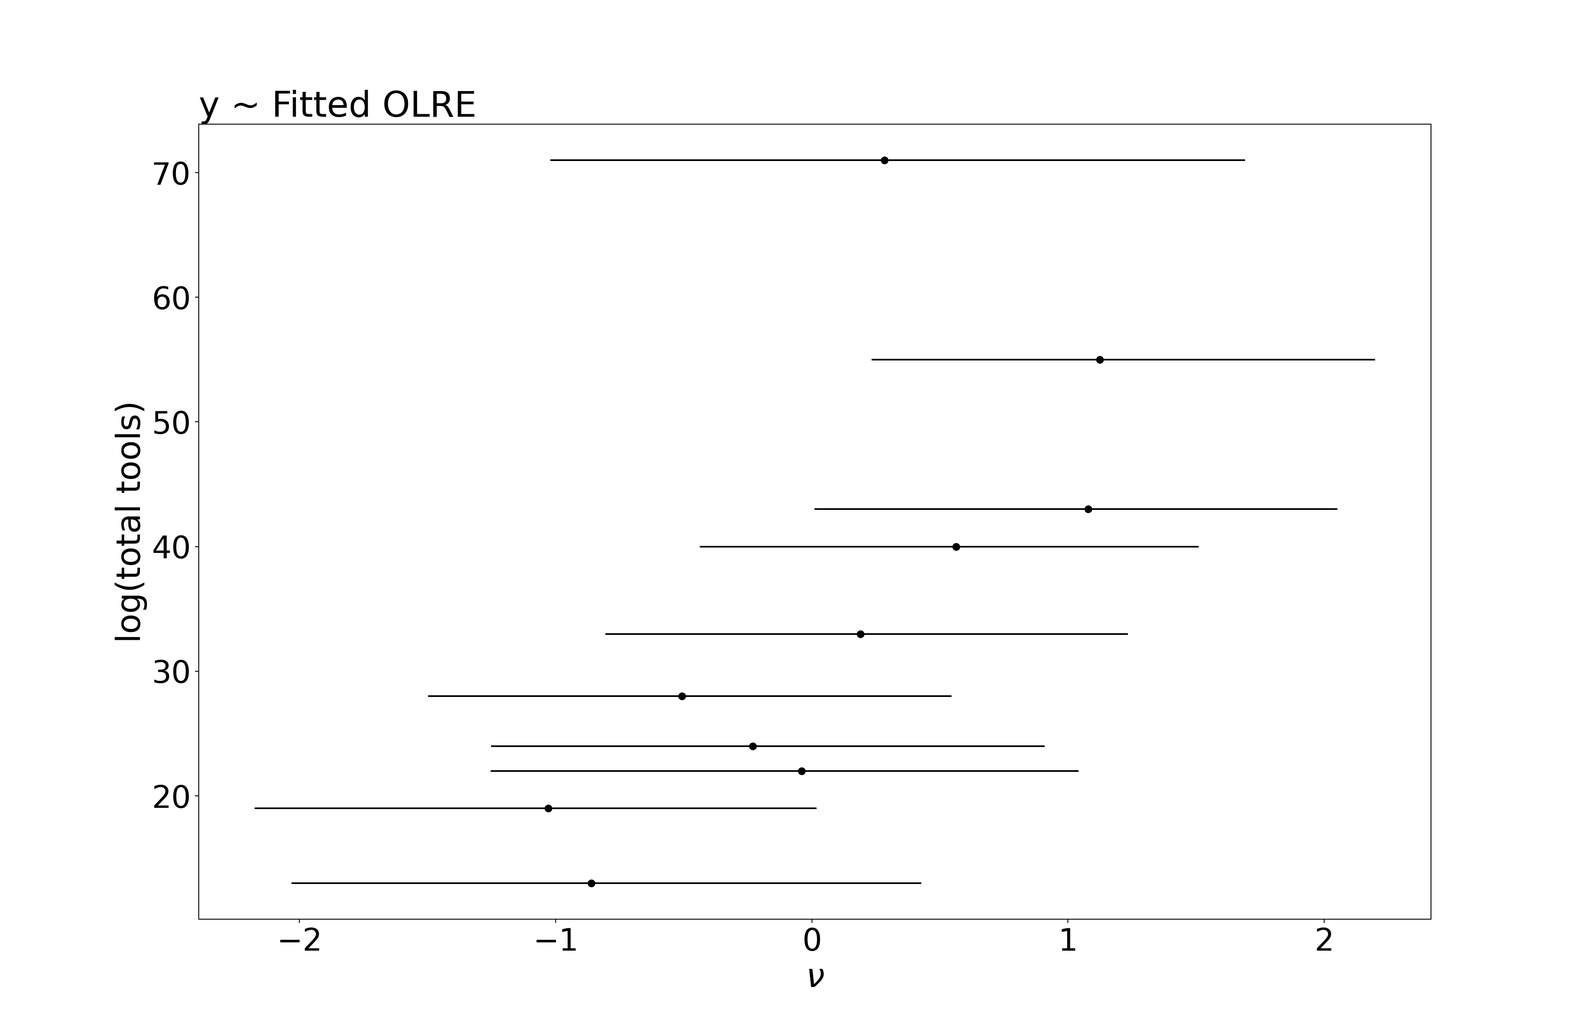
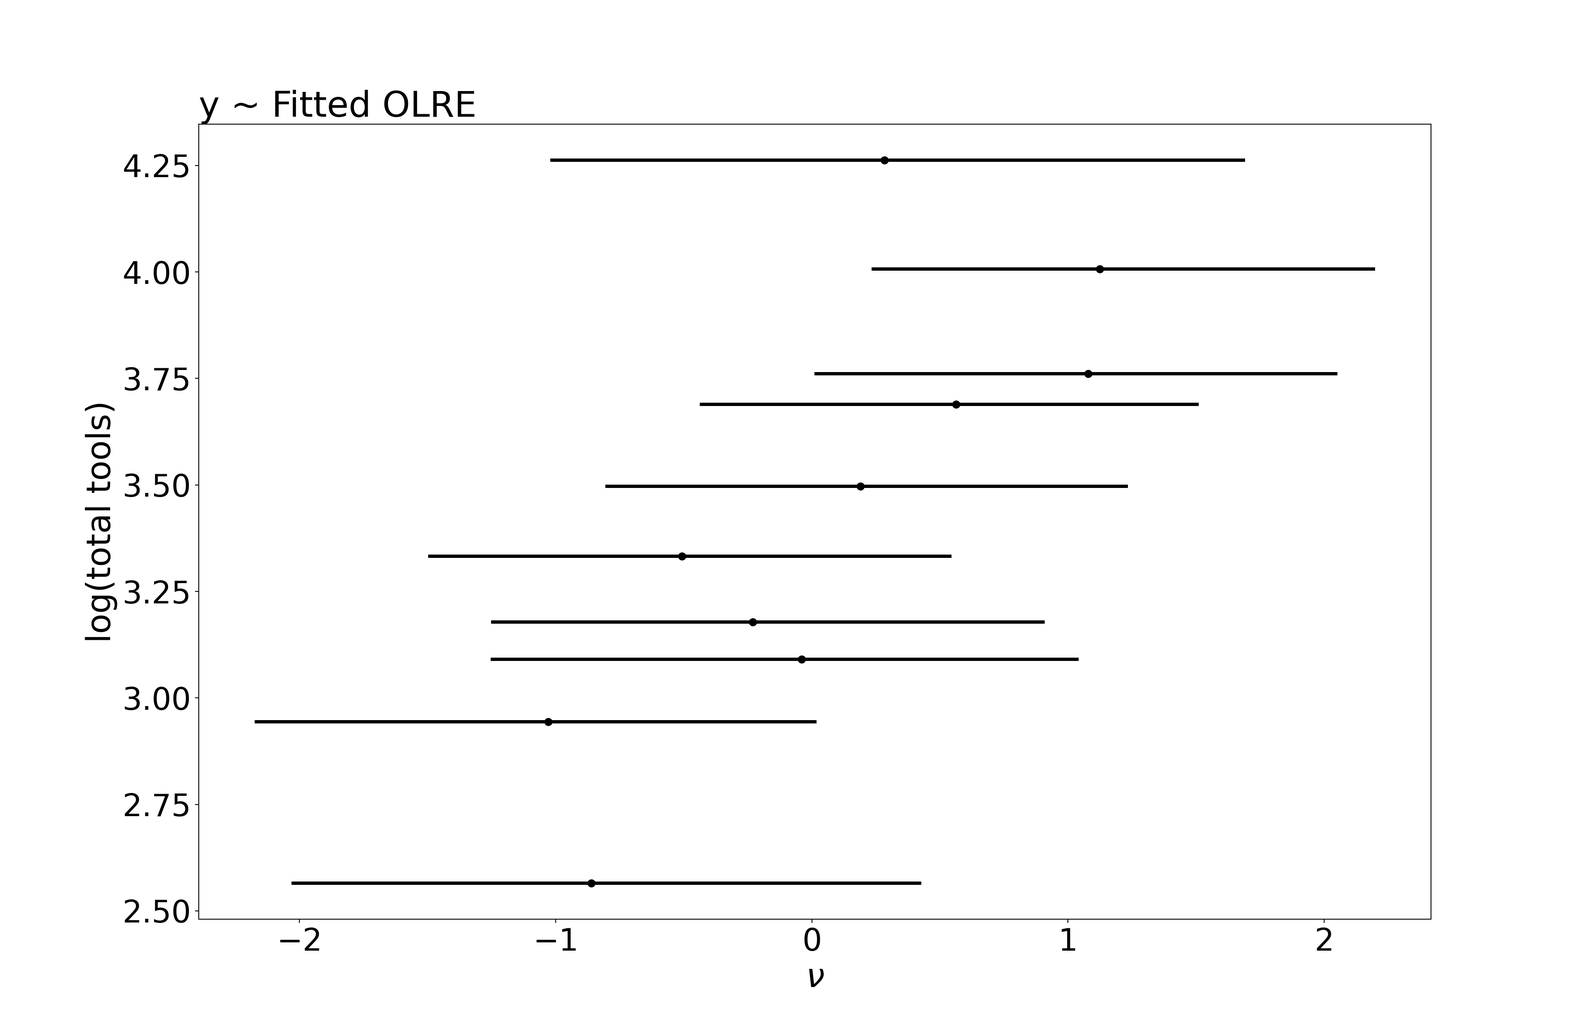
refined ppc post, update profile img

diff --git a/docs/posts/OLRE/index.html b/docs/posts/OLRE/index.html
@@ -258,14 +258,14 @@ window.Quarto = {
 
 
 
-<p>Observation-level random effects (OLRE) are an effective way to model overdispersed count data <span class="citation" data-cites="harrison2014using">(<a href="#ref-harrison2014using" role="doc-biblioref">Harrison 2014</a>)</span>. For example, OLREs relax the assumption of Poisson regression that the variance is equal to the mean by adding a “random intercept” (<span class="math inline">\(\nu\)</span>) for every observation. For each observation <span class="math inline">\(i\)</span>:</p>
+<p>Observation-level random effects (OLRE) are an effective way to model overdispersed count data <span class="citation" data-cites="harrison2014using harrison2015comparison">(<a href="#ref-harrison2014using" role="doc-biblioref">Harrison 2014</a>, <a href="#ref-harrison2015comparison" role="doc-biblioref">2015</a>)</span> and for capturing residual correlations in <a href="https://cran.r-project.org/web/packages/brms/vignettes/brms_multivariate.html">multi-response models</a> <span class="citation" data-cites="hadfield2010mcmc">(<a href="#ref-hadfield2010mcmc" role="doc-biblioref">Hadfield 2010</a>)</span>. For example, OLREs relax the assumption of Poisson regression that the variance is equal to the mean by giving each observation <span class="math inline">\(i\)</span> a “random intercept” (<span class="math inline">\(\nu_i\)</span>):</p>
 <p><span class="math display">\[ y_i \sim \text{Poisson}(\lambda_i)\]</span> <span class="math display">\[ \text{log}(\lambda_i) = b_0 + \nu_i\]</span> <span class="math display">\[ \nu_i \sim \mathcal{N} (0, \sigma) \]</span></p>
-<p>By putting <span class="math inline">\(\nu\)</span> inside the linear model, we smuggle a variance component (<span class="math inline">\(\sigma\)</span>) into a distribution that otherwise has only a single rate parameter (this trick also works for the Binomial distribution <span class="citation" data-cites="harrison2015comparison">(<a href="#ref-harrison2015comparison" role="doc-biblioref">Harrison 2015</a>)</span>). OLREs are also useful for <a href="https://cran.r-project.org/web/packages/brms/vignettes/brms_multivariate.html">multi-response models</a>, allowing us to capture residual correlations between multiple outcomes <span class="citation" data-cites="hadfield2010mcmc">(<a href="#ref-hadfield2010mcmc" role="doc-biblioref">Hadfield 2010</a>)</span>.</p>
+<p>By putting <span class="math inline">\(\nu\)</span> inside the linear model, we smuggle a variance component (<span class="math inline">\(\sigma\)</span>) into a distribution that otherwise has only a single rate parameter (this trick also works for the Binomial distribution).</p>
 <p><a href="https://mc-stan.org/docs/stan-users-guide/posterior-predictive-checks.html">Predictive checks</a> are a routine form of model checking used to understand a model’s ability to represent the data. Unfortunately, <strong>most software for performing predictive checks will handle OLREs the wrong way by default, giving an inflated goodness-of-fit.</strong> In this post I will show you how to do it the right way, in either R + <code>brms</code> or Python + <code>PyMC</code>. In this post I focus on Bayesian models, but the basic idea would also hold for checking frequentist models with software such as <code>lme4</code> and <code>glmmTMB</code>.</p>
 <section id="the-wrong-way" class="level1">
 <h1>The wrong way</h1>
 <p>In Bayesian workflow, we often perform <a href="https://mc-stan.org/docs/stan-users-guide/posterior-predictive-checks.html">posterior predictive checks</a>. In brief, draws from the posterior distribution are used to generate many synthetic replications of our dataset, denoted <span class="math inline">\(y_{\text{rep}}\)</span>, which are then compared to the observed values. Systematic discrepancies between the distribution of <span class="math inline">\(y_\text{rep}\)</span> and the actual data indicate misspecification, and can suggest ways to improve our model.</p>
-<p>To illustrate this idea, we’ll use the Oceanic toolkit complexity dataset from Michelle Kline and Robert Boyd <span class="citation" data-cites="kline2010population">(<a href="#ref-kline2010population" role="doc-biblioref">Kline and Boyd 2010</a>)</span>. The response variable is the count of unique tools in a given Oceanic society (<code>total_tools</code>), which is predicted by the natural logarithm of population size (<code>population</code>). First, we will fit this basic model, using priors from <span class="citation" data-cites="mcelreath2020god">(<a href="#ref-mcelreath2020god" role="doc-biblioref">McElreath 2020</a>)</span>:</p>
+<p>To illustrate this idea, we’ll use the Oceanic toolkit complexity dataset from Michelle Kline and Robert Boyd <span class="citation" data-cites="kline2010population">(<a href="#ref-kline2010population" role="doc-biblioref">Kline and Boyd 2010</a>)</span>. The response variable is the count of unique tools in a given Oceanic society (<code>total_tools</code>), which is predicted by the natural logarithm of population size (<code>population</code>). First we will fit this basic model, using priors from <span class="citation" data-cites="mcelreath2020god">(<a href="#ref-mcelreath2020god" role="doc-biblioref">McElreath 2020</a>)</span>. For each society <span class="math inline">\(i\)</span>:</p>
 <p><span class="math display">\[ \text{total\_tools}_i \sim \text{Poisson}(\lambda_i)\]</span> <span class="math display">\[ \text{log}(\lambda_i) = b_0 + b_{\text{pop}}\text{log}(\text{population}_{z_i})\]</span> <span class="math display">\[ b_0 \sim \mathcal{N}(3, 0.5)\]</span> <span class="math display">\[ b_{\text{pop}} \sim \mathcal{N}(0, 0.2)\]</span></p>
 <p>Then, we will perform posterior predictive checks using some off-the-shelf convenience functions.</p>
 <div class="tabset-margin-container"></div><div class="panel-tabset">
@@ -414,7 +414,7 @@ window.Quarto = {
 <span id="cb3-55"><a href="#cb3-55" aria-hidden="true" tabindex="-1"></a>        elinewidth<span class="op">=</span><span class="dv">8</span>,</span>
 <span id="cb3-56"><a href="#cb3-56" aria-hidden="true" tabindex="-1"></a>        capsize<span class="op">=</span><span class="dv">0</span>,</span>
 <span id="cb3-57"><a href="#cb3-57" aria-hidden="true" tabindex="-1"></a>        label<span class="op">=</span>label,</span>
-<span id="cb3-58"><a href="#cb3-58" aria-hidden="true" tabindex="-1"></a>        alpha <span class="op">=</span> <span class="fl">0.10</span>,</span>
+<span id="cb3-58"><a href="#cb3-58" aria-hidden="true" tabindex="-1"></a>        alpha<span class="op">=</span><span class="fl">0.1</span>,</span>
 <span id="cb3-59"><a href="#cb3-59" aria-hidden="true" tabindex="-1"></a>        markersize<span class="op">=</span><span class="dv">20</span></span>
 <span id="cb3-60"><a href="#cb3-60" aria-hidden="true" tabindex="-1"></a>    )</span>
 <span id="cb3-61"><a href="#cb3-61" aria-hidden="true" tabindex="-1"></a></span>
@@ -535,6 +535,7 @@ window.Quarto = {
 </div>
 </div>
 </div>
+<p>Looks good, right? Sadly, this is a little too good to be true. We have misled ourselves. To see why, let’s examine the <span class="math inline">\(\nu_{\text{obs}}\)</span> parameters in relation to the observed data:</p>
 <div class="tabset-margin-container"></div><div class="panel-tabset">
 <ul class="nav nav-tabs" role="tablist"><li class="nav-item" role="presentation"><a class="nav-link active" id="tabset-3-1-tab" data-bs-toggle="tab" data-bs-target="#tabset-3-1" role="tab" aria-controls="tabset-3-1" aria-selected="true">brms</a></li><li class="nav-item" role="presentation"><a class="nav-link" id="tabset-3-2-tab" data-bs-toggle="tab" data-bs-target="#tabset-3-2" role="tab" aria-controls="tabset-3-2" aria-selected="false">PyMC</a></li></ul>
 <div class="tab-content">
@@ -568,8 +569,8 @@ window.Quarto = {
 <div class="sourceCode cell-code" id="cb8"><pre class="sourceCode python code-with-copy"><code class="sourceCode python"><span id="cb8-1"><a href="#cb8-1" aria-hidden="true" tabindex="-1"></a>stats <span class="op">=</span> az.summary(idata_OLRE, var_names<span class="op">=</span>[<span class="st">"^nu.*"</span>], filter_vars<span class="op">=</span><span class="st">"regex"</span>, hdi_prob<span class="op">=</span><span class="fl">0.9</span>)</span>
 <span id="cb8-2"><a href="#cb8-2" aria-hidden="true" tabindex="-1"></a></span>
 <span id="cb8-3"><a href="#cb8-3" aria-hidden="true" tabindex="-1"></a>fig <span class="op">=</span> plt.figure(figsize<span class="op">=</span>(<span class="dv">20</span>, <span class="dv">13</span>))</span>
-<span id="cb8-4"><a href="#cb8-4" aria-hidden="true" tabindex="-1"></a>plt.hlines(y<span class="op">=</span>idata_OLRE.observed_data[<span class="st">'y'</span>], xmin<span class="op">=</span>stats[<span class="st">'hdi_5%'</span>], xmax <span class="op">=</span> stats[<span class="st">'hdi_95%'</span>], color<span class="op">=</span><span class="st">"black"</span>)</span>
-<span id="cb8-5"><a href="#cb8-5" aria-hidden="true" tabindex="-1"></a>plt.scatter(y<span class="op">=</span>idata_OLRE.observed_data[<span class="st">'y'</span>], x<span class="op">=</span>stats[<span class="st">'mean'</span>], color<span class="op">=</span><span class="st">"black"</span>)</span>
+<span id="cb8-4"><a href="#cb8-4" aria-hidden="true" tabindex="-1"></a>plt.hlines(y<span class="op">=</span>np.log(Kline[<span class="st">'total_tools'</span>]), xmin<span class="op">=</span>stats[<span class="st">'hdi_5%'</span>], xmax <span class="op">=</span> stats[<span class="st">'hdi_95%'</span>], color<span class="op">=</span><span class="st">"black"</span>, linewidth<span class="op">=</span><span class="dv">3</span>)</span>
+<span id="cb8-5"><a href="#cb8-5" aria-hidden="true" tabindex="-1"></a>plt.scatter(y<span class="op">=</span>np.log(Kline[<span class="st">'total_tools'</span>]), x<span class="op">=</span>stats[<span class="st">'mean'</span>], color<span class="op">=</span><span class="st">"black"</span>, s <span class="op">=</span> <span class="dv">40</span>)</span>
 <span id="cb8-6"><a href="#cb8-6" aria-hidden="true" tabindex="-1"></a></span>
 <span id="cb8-7"><a href="#cb8-7" aria-hidden="true" tabindex="-1"></a>plt.title(<span class="st">'y ~ Fitted OLRE'</span>, loc <span class="op">=</span> <span class="st">"left"</span>)</span>
 <span id="cb8-8"><a href="#cb8-8" aria-hidden="true" tabindex="-1"></a>plt.xlabel(<span class="vs">r'$\nu$'</span>)</span>
@@ -587,7 +588,7 @@ window.Quarto = {
 </div>
 </div>
 </div>
-<p>This plot shows us that the OLREs are positively correlated with the values of the observed data. Why? These parameters are doing exactly what they are supposed to do: capture excess dispersion in the data by learning which points are higher or lower than we would expect, conditional on population size. But if you think for a moment about <em>out-of-sample</em> prediction, you might intuit the problem. We need to generate <span class="math inline">\(y_\text{rep}\)</span> for a new observation with some unknown <span class="math inline">\(y_{\text{test}}\)</span>, whose value will not be known ahead of time. Thus, the OLRE should convey no information about the value <span class="math inline">\(y_{\text{test}}\)</span>. In our naive predictive check, we have mistakenly treated <span class="math inline">\(\nu\)</span> as fixed, when really it should be replicated along with <span class="math inline">\(y_\text{rep}\)</span>, akin to <span class="math inline">\(\epsilon\)</span> in a linear regression. Generating <span class="math inline">\(y_\text{rep}\)</span> this way is referred to as “mixed replication”, because we leave the hyperparameter <span class="math inline">\(\sigma\)</span> fixed but replicate each random effect parameter <span class="citation" data-cites="gelman1996posterior">(<a href="#ref-gelman1996posterior" role="doc-biblioref">Gelman, Meng, and Stern 1996</a>)</span>.</p>
+<p>This plot shows us that the OLREs are positively correlated with the values of the observed data. Why? These parameters are doing exactly what they are supposed to do: capture excess dispersion in the data by learning which points are higher or lower than we would expect, given their population size. To see the problem, consider out-of-sample prediction: when generating <span class="math inline">\(y_\text{rep}\)</span> for a new observation, we don’t know <span class="math inline">\(y_{\text{test}}\)</span> in advance, so the OLRE should convey no information about it. In our naive predictive check, we have mistakenly treated <span class="math inline">\(\nu\)</span> as fixed, when really it should be replicated along with <span class="math inline">\(y_\text{rep}\)</span>, akin to <span class="math inline">\(\epsilon\)</span> in a linear regression. Generating <span class="math inline">\(y_\text{rep}\)</span> this way is referred to as “mixed replication”, because we leave the hyperparameter <span class="math inline">\(\sigma\)</span> fixed but replicate each random effect parameter <span class="citation" data-cites="gelman1996posterior">(<a href="#ref-gelman1996posterior" role="doc-biblioref">Gelman, Meng, and Stern 1996</a>)</span>.</p>
 </section>
 <section id="the-right-way" class="level1">
 <h1>The right way</h1>
@@ -609,9 +610,10 @@ window.Quarto = {
 <span id="cb9-8"><a href="#cb9-8" aria-hidden="true" tabindex="-1"></a>    <span class="fu">plot_annotation</span>(<span class="at">subtitle =</span> <span class="st">"OLRE PPC: The right way"</span>) </span></code><button title="Copy to Clipboard" class="code-copy-button"><i class="bi"></i></button></pre></div>
 </details>
 <div class="cell-output-display">
-<div>
+<div class="quarto-figure quarto-figure-center">
 <figure class="figure">
 <p><img src="index_files/figure-html/unnamed-chunk-8-3.png" class="img-fluid figure-img" width="672"></p>
+<figcaption>Correct posterior predictive checks for OLRE Poisson model, sampling new levels of nu (nu_rep). (left) replicated and observed densities, (right) observation-level reps, with bars representing 50% and 90% credible intervals.</figcaption>
 </figure>
 </div>
 </div>
@@ -651,12 +653,12 @@ window.Quarto = {
 </div>
 </div>
 </div>
-<p>Notice that, unlike our first predictive check with no OLRE, the credible intervals of <span class="math inline">\(y_{\text{rep}}\)</span> all contain the observed values of y. But unlike our (wrong) second predictive check, the predictions do not conform so closely to the observed values, because each <span class="math inline">\(\nu_{\text{rep}}\)</span> is independent of <span class="math inline">\(y\)</span>. This provides us with a more realistic picture of our model’s fit. So, why do most posterior predictive functions treat OLREs the wrong way by default? The answer is mundane: the software doesn’t know whether <span class="math inline">\(\nu\)</span> is an OLRE or instead a parameter that should be fixed across replications, like random effects for group differences. The latter is more common, so the default is sensible–but not necessarily safe.</p>
-<p>There is a caveat: all posterior predictive checks are overly optimistic for <em>out-of-sample</em> data, because we are using the same data points to both fit and evaluate the model. As a result, a more complex model that looks better in a predictive check might actually look worse when generalizing to new data, i.e., overfitting. This issue is not specific to OLREs, but in the final section I’ll show you how to address overfitting in predictive checks.</p>
+<p>Notice that, unlike our first predictive check with no OLRE, the credible intervals of <span class="math inline">\(y_{\text{rep}}\)</span> all contain the observed values of y. But unlike our (wrong) second predictive check, the predictions do not conform so closely to the observed values, because each <span class="math inline">\(\nu_{\text{rep}}\)</span> is independent of <span class="math inline">\(y\)</span>. This provides us with a more realistic picture of our model’s fit. So, why do most posterior predictive functions treat OLREs the wrong way by default? Because the software doesn’t know whether <span class="math inline">\(\nu\)</span> is an OLRE or instead a parameter that should be fixed across replications, like random effects for group differences. The latter is more common, so the default is sensible–but not necessarily safe.</p>
+<p>There is a caveat: even if we do it the “right way”, all posterior predictive checks are overly optimistic for <em>out-of-sample</em> data because they use the same data for fitting and evaluation. A model that performs well in these checks might actually have poor generalization to new data due to overfitting. This issue is not specific to OLREs, but in the final section I’ll show you how to address overfitting in predictive checks.</p>
 </section>
 <section id="an-even-better-way" class="level1">
 <h1>An even better way?</h1>
-<p>Using leave-one-out cross validation, (LOOCV) we can construct predictions where one observation at a time is left out of model fitting and then used as a test point. This offers a more honest appraisal of predictive accuracy, because the model does not have access to the left out <span class="math inline">\(y\)</span> before we try to predict them. Now we have a true prediction task, rather than retrodicting the sample data.</p>
+<p>Leave-one-out cross validation (LOOCV) provides a more honest assessment of predictive accuracy by holding out one observation at a time as a test point. Since the model never sees the held-out observation during fitting, these model checks will reflect true predictive performance rather than <em>retrodiction</em> of the sample. In the code below perform exact LOOCV, refitting the model and making predictions for the one left out point <span class="math inline">\(N = 10\)</span> times.</p>
 <div class="tabset-margin-container"></div><div class="panel-tabset">
 <ul class="nav nav-tabs" role="tablist"><li class="nav-item" role="presentation"><a class="nav-link active" id="tabset-5-1-tab" data-bs-toggle="tab" data-bs-target="#tabset-5-1" role="tab" aria-controls="tabset-5-1" aria-selected="true">brms</a></li><li class="nav-item" role="presentation"><a class="nav-link" id="tabset-5-2-tab" data-bs-toggle="tab" data-bs-target="#tabset-5-2" role="tab" aria-controls="tabset-5-2" aria-selected="false">PyMC</a></li></ul>
 <div class="tab-content">
@@ -741,7 +743,7 @@ window.Quarto = {
 </div>
 </div>
 </div>
-<p>This predictive check is even less optimistic, but it still looks better than the basic Poisson model we fit, suggesting that the OLRE is helpful. For larger models, it would be infeasible to refit <span class="math inline">\(N\)</span> times, so one might turn to Pareo-smoothed importance sampling as an approximation (PSIS-LOO) <span class="citation" data-cites="vehtari2017practical">(<a href="#ref-vehtari2017practical" role="doc-biblioref">Vehtari, Gelman, and Gabry 2017</a>)</span>. However, my understanding is that PSIS is not reliable for these types of models, and one should instead <a href="https://users.aalto.fi/~ave/modelselection/roaches.html#5_Poisson_model_with_varying_intercept_and_integrated_LOO">integrate out the OLREs using adaptive quadrature</a>.</p>
+<p>This predictive check is even less optimistic, but it still looks better than the first Poisson model we fit, suggesting that the OLRE is helpful. For large datasets, it becomes be infeasible to refit the model for each observation, so one might turn to <a href="https://rdrr.io/cran/brms/man/kfold.brmsfit.html">k-fold cross validation</a> or Pareo-smoothed importance sampling as an approximation (<a href="https://rdrr.io/cran/brms/man/loo.brmsfit.html">PSIS-LOO</a>) <span class="citation" data-cites="vehtari2017practical">(<a href="#ref-vehtari2017practical" role="doc-biblioref">Vehtari, Gelman, and Gabry 2017</a>)</span>. Note that PSIS may not reliable for these types of models, and one should instead <a href="https://users.aalto.fi/~ave/modelselection/roaches.html#5_Poisson_model_with_varying_intercept_and_integrated_LOO">integrate out the OLREs using adaptive quadrature</a>.</p>
 </section>
 <section id="reproducible-environment" class="level1">
 <h1>Reproducible environment</h1>

diff --git a/docs/index.html b/docs/index.html
@@ -207,7 +207,7 @@ window.Quarto = {
 
 <div class="quarto-listing quarto-listing-container-default" id="listing-listing">
 <div class="list quarto-listing-default">
-<div class="quarto-post image-right" data-index="0" data-categories="Prediction,Statistics,brms,PyMC" data-listing-date-sort="1731193200000" data-listing-file-modified-sort="1731694334193" data-listing-date-modified-sort="NaN" data-listing-reading-time-sort="15" data-listing-word-count-sort="2861">
+<div class="quarto-post image-right" data-index="0" data-categories="Prediction,Statistics,brms,PyMC" data-listing-date-sort="1731193200000" data-listing-file-modified-sort="1731715861169" data-listing-date-modified-sort="NaN" data-listing-reading-time-sort="15" data-listing-word-count-sort="2871">
 <div class="thumbnail">
 <p><a href="./posts/OLRE/index.html" class="no-external"></a></p><a href="./posts/OLRE/index.html" class="no-external">
 <p><img loading="lazy" src="./posts/OLRE/image.png" class="thumbnail-image"></p>
@@ -235,7 +235,7 @@ PyMC
 </div>
 </div>
 <div class="listing-description">
-<a href="./posts/OLRE/index.html" class="no-external">Observation-level random effects (OLRE) are an effective way to model overdispersed count data <span class="citation" data-cites="harrison2014using">(Harrison 2014)</span>. For example, OLREs relax the assumption of Poisson regression…<span class="math inline"></span><span class="math inline"></span></a>
+<a href="./posts/OLRE/index.html" class="no-external">Observation-level random effects (OLRE) are an effective way to model overdispersed count data <span class="citation" data-cites="harrison2014using harrison2015comparison">(Harrison 2014, 2015)</span> and for capturing residual correlations in multi-response…<span class="citation" data-cites="hadfield2010mcmc"></span><span class="math inline"></span><span class="math inline"></span></a>
 </div>
 </div>
 <div class="metadata">
@@ -679,4 +679,4 @@ window.document.addEventListener("DOMContentLoaded", function (event) {
 
 
 
-</body></html>
+<footer class="footer"><div class="nav-footer"><div class="nav-footer-center"><div class="toc-actions"><ul><li><a href="https://github.com/ErikRingen/erikringen.github.io/edit/main/index.qmd" class="toc-action"><i class="bi bi-github"></i>Edit this page</a></li><li><a href="https://github.com/ErikRingen/erikringen.github.io/issues/new" class="toc-action"><i class="bi empty"></i>Report an issue</a></li></ul></div></div></div></footer></body></html>

diff --git a/docs/about.html b/docs/about.html
@@ -70,8 +70,10 @@ ul.task-list li input[type="checkbox"] {
 <link rel="stylesheet" href="styles.css">
 <meta property="og:title" content="About – erikringen.github.io">
 <meta property="og:description" content="">
-<meta property="og:image" content="https://erikringen.github.io/profile.jpg">
+<meta property="og:image" content="https://erikringen.github.io/profile.png">
 <meta property="og:site_name" content="erikringen.github.io">
+<meta property="og:image:height" content="703">
+<meta property="og:image:width" content="720">
 </head>
 
 <body class="nav-fixed fullcontent">
@@ -119,7 +121,7 @@ ul.task-list li input[type="checkbox"] {
     
 <!-- main -->
 <div class="quarto-about-jolla">
-  <img src="profile.jpg" class="about-image
+  <img src="profile.png" class="about-image
   round " style="height: 15em; width: 15em;">
  <header id="title-block-header" class="quarto-title-block default">
 <div class="quarto-title">
@@ -563,4 +565,4 @@ window.document.addEventListener("DOMContentLoaded", function (event) {
 
 
 
-</body></html>
+<footer class="footer"><div class="nav-footer"><div class="nav-footer-center"><div class="toc-actions"><ul><li><a href="https://github.com/ErikRingen/erikringen.github.io/edit/main/about.qmd" class="toc-action"><i class="bi bi-github"></i>Edit this page</a></li><li><a href="https://github.com/ErikRingen/erikringen.github.io/issues/new" class="toc-action"><i class="bi empty"></i>Report an issue</a></li></ul></div></div></div></footer></body></html>
